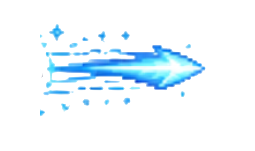
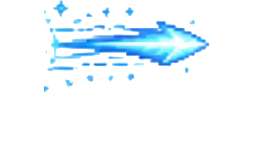
Añadir animación de agacharse para madrina

diff --git a/script.js b/script.js
@@ -8,6 +8,7 @@
   const SPEED = 4;
   const FRAME_INTERVAL = 140;          // ms entre frames de caminata
   const ATTACK_FRAME_INTERVAL = 100;   // ms entre frames de ataque (más rápido)
+  const CROUCH_FRAME_INTERVAL = 250;   // ms entre frames de agacharse (más lento)
   const GROUND_HEIGHT_RATIO = 0.12;
   const SCREEN_MARGIN = 20;
 
@@ -25,6 +26,7 @@
     el: document.getElementById('madrina'),
     walkFrames:   document.querySelectorAll('#madrina .walk-frame'),
     attackFrames: document.querySelectorAll('#madrina .attack-frame'),
+    crouchFrames: document.querySelectorAll('#madrina .crouch-frame'),
     x: window.innerWidth / 2,
     flip: 1,
     // --- estado de ataque ---
@@ -32,6 +34,10 @@
     attackFrame: 0,
     attackAccumulator: 0,
     attackDidFire: false,  // ya se lanzó el proyectil en este ataque
+    // --- estado de agacharse ---
+    isCrouching: false,
+    crouchFrame: 0,
+    crouchAccumulator: 0,
   };
 
   // Lista de proyectiles activos
@@ -44,16 +50,18 @@
   let isWalking = false;
 
   // --- INPUT TECLADO --------------------------------------------
-  const keys = { left: false, right: false };
+  const keys = { left: false, right: false, down: false };
 
   window.addEventListener('keydown', (e) => {
     if (e.key === 'ArrowLeft'  || e.key === 'a' || e.key === 'A') keys.left  = true;
     if (e.key === 'ArrowRight' || e.key === 'd' || e.key === 'D') keys.right = true;
+    if (e.key === 'ArrowDown'  || e.key === 's' || e.key === 'S') keys.down  = true;
   });
 
   window.addEventListener('keyup', (e) => {
     if (e.key === 'ArrowLeft'  || e.key === 'a' || e.key === 'A') keys.left  = false;
     if (e.key === 'ArrowRight' || e.key === 'd' || e.key === 'D') keys.right = false;
+    if (e.key === 'ArrowDown'  || e.key === 's' || e.key === 'S') keys.down  = false;
   });
 
   // --- INPUT RATÓN: ATAQUE --------------------------------------
@@ -93,6 +101,7 @@
   function clearAllFrames(c) {
     c.walkFrames.forEach(img => img.classList.remove('is-active'));
     c.attackFrames.forEach(img => img.classList.remove('is-active'));
+    c.crouchFrames.forEach(img => img.classList.remove('is-active'));
   }
   function setWalkFrame(c, index) {
     clearAllFrames(c);
@@ -101,6 +110,10 @@
   function setAttackFrame(c, index) {
     clearAllFrames(c);
     if (c.attackFrames[index]) c.attackFrames[index].classList.add('is-active');
+  }
+  function setCrouchFrame(c, index) {
+    clearAllFrames(c);
+    if (c.crouchFrames[index]) c.crouchFrames[index].classList.add('is-active');
   }
 
   // --- PROYECTILES ----------------------------------------------
@@ -203,34 +216,72 @@
       }
     }
 
-    // === Si NO está atacando: caminar/idle normal ===
+    // === Si NO está atacando: comprobar agacharse o caminar ===
     if (!c.isAttacking) {
-      const moving = dir !== 0;
-
-      if (moving) {
-        walkAccumulator += dt;
-        if (walkAccumulator >= FRAME_INTERVAL) {
-          const advance = Math.floor(walkAccumulator / FRAME_INTERVAL);
-          const total = c.walkFrames.length || 1;
-          walkFrameIndex = (walkFrameIndex + advance) % total;
-          walkAccumulator = walkAccumulator % FRAME_INTERVAL;
+      // Gate de agacharse: si pulsa abajo, no se mueve y anima crouch.
+      if (keys.down) {
+        if (!c.isCrouching) {
+          // Recién entra en agacharse: reset
+          c.isCrouching = true;
+          c.crouchFrame = 0;
+          c.crouchAccumulator = 0;
+          // Cortar pasos si venía caminando
+          if (isWalking) {
+            isWalking = false;
+            footsteps.pause();
+          }
+          // Reset del walk para que al levantarse empiece desde 0
+          walkAccumulator = 0;
+          walkFrameIndex = 0;
         }
-        c.x += dir * SPEED;
-        c.flip = dir < 0 ? -1 : 1;
+
+        // Avanzar frames de agacharse alternando
+        c.crouchAccumulator += dt;
+        if (c.crouchAccumulator >= CROUCH_FRAME_INTERVAL) {
+          const advance = Math.floor(c.crouchAccumulator / CROUCH_FRAME_INTERVAL);
+          const total = c.crouchFrames.length || 1;
+          c.crouchFrame = (c.crouchFrame + advance) % total;
+          c.crouchAccumulator = c.crouchAccumulator % CROUCH_FRAME_INTERVAL;
+        }
+
+        setCrouchFrame(c, c.crouchFrame);
+        // No se mueve, no se cambia flip → mantiene orientación
       } else {
-        walkAccumulator = 0;
-        walkFrameIndex = 0;
-      }
+        // No está pulsando abajo: si venía agachada, salir del estado
+        if (c.isCrouching) {
+          c.isCrouching = false;
+          c.crouchFrame = 0;
+          c.crouchAccumulator = 0;
+        }
 
-      setWalkFrame(c, walkFrameIndex);
+        // --- Caminar / idle normal ---
+        const moving = (dir !== 0);
 
-      // Sonido de pasos
-      if (moving && !isWalking) {
-        isWalking = true;
-        if (audioUnlocked) footsteps.play().catch(() => {});
-      } else if (!moving && isWalking) {
-        isWalking = false;
-        footsteps.pause();
+        if (moving) {
+          walkAccumulator += dt;
+          if (walkAccumulator >= FRAME_INTERVAL) {
+            const advance = Math.floor(walkAccumulator / FRAME_INTERVAL);
+            const total = c.walkFrames.length || 1;
+            walkFrameIndex = (walkFrameIndex + advance) % total;
+            walkAccumulator = walkAccumulator % FRAME_INTERVAL;
+          }
+          c.x += dir * SPEED;
+          c.flip = dir < 0 ? -1 : 1;
+        } else {
+          walkAccumulator = 0;
+          walkFrameIndex = 0;
+        }
+
+        setWalkFrame(c, walkFrameIndex);
+
+        // Sonido de pasos
+        if (moving && !isWalking) {
+          isWalking = true;
+          if (audioUnlocked) footsteps.play().catch(() => {});
+        } else if (!moving && isWalking) {
+          isWalking = false;
+          footsteps.pause();
+        }
       }
     }
 
@@ -257,6 +308,7 @@
   const allImages = [];
   madrina.walkFrames.forEach(img => allImages.push(img));
   madrina.attackFrames.forEach(img => allImages.push(img));
+  madrina.crouchFrames.forEach(img => allImages.push(img));
   Promise.all(
     allImages.map(img => new Promise(res => {
       if (img.complete) res();

diff --git a/index.html b/index.html
@@ -23,6 +23,8 @@
       <img class="frame attack-frame" data-frame="1" src="madrina/madrinaa2.png" alt="Madrina attack 2" />
       <img class="frame attack-frame" data-frame="2" src="madrina/madrinaa3.png" alt="Madrina attack 3" />
       <img class="frame attack-frame" data-frame="3" src="madrina/madrinaa4.png" alt="Madrina attack 4" />
+      <img class="frame crouch-frame" data-frame="0" src="madrina/madrinaseagacha1.png" alt="Madrina crouch 1" />
+      <img class="frame crouch-frame" data-frame="1" src="madrina/madrinaseagacha2.png" alt="Madrina crouch 2" />
     </div>
 
     <!-- Contenedor donde el JS inyecta proyectiles -->